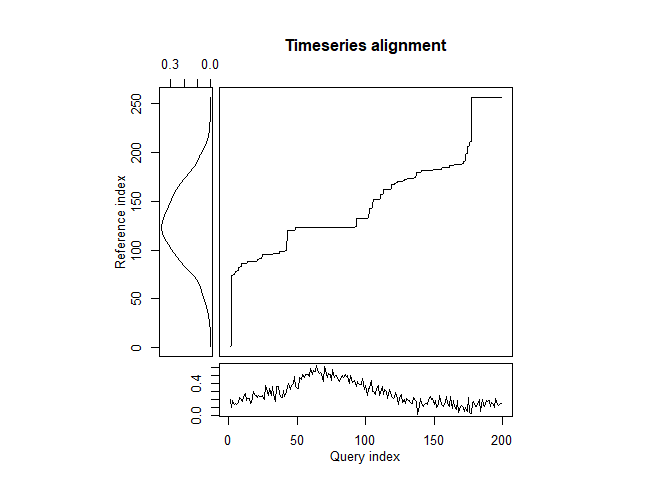
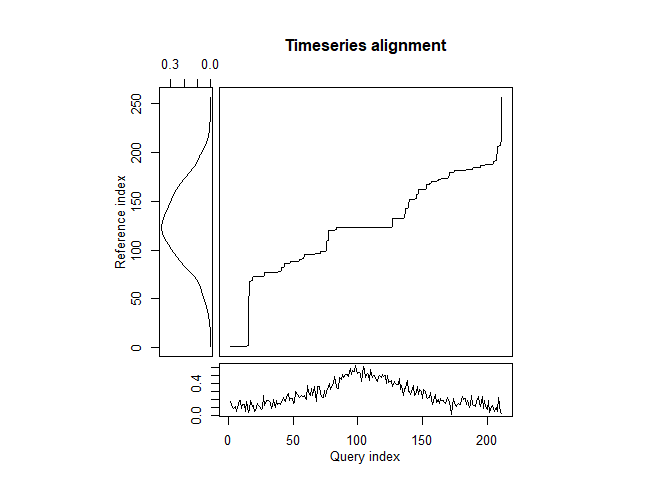
Update rendered version of dtw-optim notebook

diff --git a/notebooks/dtw-optim.md b/notebooks/dtw-optim.md
@@ -1,6 +1,7 @@
 -   [Constrained Optimization test](#constrained-optimization-test)
 -   [Constrained optimization of a
     DTW](#constrained-optimization-of-a-dtw)
+-   [Rectifying the warped query](#rectifying-the-warped-query)
 
     source("../helpers.R")
     source("./common-funcs.R", echo = FALSE)
@@ -174,7 +175,8 @@ scores, or use arguments to change the computation entirely.
       
       org_f <- pattern_approxfun(org_signal$y)
       # We want to optimize the mapped function, not the one represented by the window
-      comp_f <- pattern_approxfun(comp_ex$data, yLimits = range(org_signal$y))
+      #comp_f <- pattern_approxfun(comp_ex$data, yLimits = range(org_signal$y))
+      comp_f <- pattern_approxfun(comp_win)
       
       warp_dtw <- pattern_approxfun_warp(dtwAlign = comp_dtw)
       warp_org_f <- warp_dtw$f_warp_org
@@ -185,18 +187,28 @@ scores, or use arguments to change the computation entirely.
       
       
       if (useOnlyKL) {
-        temp1 <- stat_diff_2_functions_symmetric_KL(org_f, comp_f)$value^.2
-        temp2 <- stat_diff_2_functions_symmetric_KL(warp_org_f, warp_opt_f)$value^.2
-        kl_ONLY_SCORE <- temp1 * temp2
-        return(kl_ONLY_SCORE)
+        return(
+          stat_diff_2_functions_symmetric_KL_sampled(org_f, comp_f)$value^.2 *
+          stat_diff_2_functions_symmetric_KL_sampled(warp_org_f, warp_opt_f)$value^.2
+        )
+    #    temp1 <- stat_diff_2_functions_symmetric_KL(org_f, comp_f)$value^.2
+    #    temp2 <- stat_diff_2_functions_symmetric_KL(warp_org_f, warp_opt_f)$value^.2
+    #    kl_ONLY_SCORE <- temp1 * temp2
+    #    return(kl_ONLY_SCORE)
       }
       
       # This can be returned directly (should not be used with other scores).
       if (useOnlyJSD) {
-        jsd_ONLY_LOG_SCORE <- -1 *
-          log(stat_diff_2_functions_symmetric_JSD(org_f, comp_f)$value) *
-          log(stat_diff_2_functions_symmetric_JSD(warp_org_f, warp_opt_f)$value)
-        return(jsd_ONLY_LOG_SCORE)
+        # Note: It appears we can leave out scoring the warping function
+        # as we do it below, if the function comp_f was approximated over comp_win.
+        return(-1 *
+          log(stat_diff_2_functions_symmetric_JSD_sampled(org_f, comp_f)$value) *
+          log(stat_diff_2_functions_symmetric_JSD_sampled(warp_org_f, warp_opt_f)$value)
+        )
+    #    jsd_ONLY_LOG_SCORE <- -1 *
+    #      log(stat_diff_2_functions_symmetric_JSD(org_f, comp_f)$value) *
+    #      log(stat_diff_2_functions_symmetric_JSD(warp_org_f, warp_opt_f)$value)
+    #    return(jsd_ONLY_LOG_SCORE)
       }
       
       
@@ -274,11 +286,12 @@ equal to) 0, and the cut-out to be less than (or equal to) 1.
     })
     co_dtw_res$par
 
-    ## [1] 0.2939301 0.4875219
+    ## [1] 0.2603748 0.4661656
 
     co_dtw_res$value
 
-    ## [1] -27.96735
+    ## jensen-shannon 
+    ##      -24.07713
 
 Note that `co_dtw_res$par` holds the optimized parameters for which the
 objective function returned the minimum value (since we are doing
@@ -298,14 +311,14 @@ may have different meaning (for example, when using scores, the range is
     tempEx <- extract_signal_from_window(comp_dtw, use_win)
     tempEx$monotonicity
 
-    ## [1] 0.3205742
+    ## [1] 0.3185012
 
     org_f <- pattern_approxfun(org_signal$y[comp_ex$start_ref:comp_ex$end_ref])
-    comp_f <- pattern_approxfun(comp_ex$data, smooth = TRUE)
-    #comp_f <- pattern_approxfun(yData = use_win, yLimits = range(org_signal$y))
+    #comp_f <- pattern_approxfun(comp_ex$data, smooth = TRUE)
+    comp_f <- pattern_approxfun(yData = use_win)#, yLimits = range(org_signal$y))
     area_diff_2_functions(org_f, comp_f)$value
 
-    ## [1] 0.06645404
+    ## [1] 0.1333452
 
     plot_2_functions(org_f, comp_f)
 
@@ -371,7 +384,7 @@ enough.
     })
 
 Let’s show the results’ search space. Remember our optimal solution is
-at 0.2939301, 0.4875219 (cut-in/-out). Also, the graph below will show
+at 0.2603748, 0.4661656 (cut-in/-out). Also, the graph below will show
 better results located on the diagonal, which are invalid, because we
 have imposed constraints to guarantee a minimum distance between in/out,
 which invalidates all these results.
@@ -388,7 +401,11 @@ which invalidates all these results.
 ![](dtw-optim_files/figure-markdown_strict/unnamed-chunk-9-1.png)
 
 Since the KL-divergence was not able to converge to the same optimum,
-let’s plot the heatmap for it, too.
+let’s plot the heatmap for it, too. *(Note: The below results were not
+computed with the new `KL_sampled`-function and may deviate from those!
+A quick test showed that the `KL_sampled`-function finds a slightly
+better result for the example above; however, it still cannot be any of
+the `JSD`-functions.)*
 
     # We have computed this previously
     z_KL <- readRDS("../results/dtw-optim-onlyKL.rds")
@@ -402,3 +419,108 @@ let’s plot the heatmap for it, too.
     })
 
 ![](dtw-optim_files/figure-markdown_strict/unnamed-chunk-10-1.png)
+
+Rectifying the warped query
+===========================
+
+*(Note: The following is an unfinished test and not entirely working as
+expected! In the meantime, we have achieved what we were after, and
+there are new functions, such as `extract_warping_from_dtw()` and
+`get_dtw_scorable_functions()` that deliver rectified reference and
+query signals.)*
+
+*(Note: These new functions allow us to get closer to the pursued
+optimization goal of quantifying the costs for the patch.)*
+
+We want to make an attempt at rectifying the query signal, according to
+the warping function. We will use the warping function’s derivative to
+find sections of constant slope, and then sample (interpolate, actually)
+from the query according to the slope. Finally, we compose all rectified
+fragments into a new query that we can use for DTW again, or for
+assessing the goodness of fit using some metrics or scores.
+
+    wl <- length(comp_dtw$index2)
+    warp_x <- seq(0, 1, length.out = wl)
+    warp_f_ <- stats::approxfun(x = warp_x, y = comp_dtw$index2 / max(comp_dtw$index2))
+    warp_f <- base::Vectorize(function(x) {
+      if (x < 0) {
+        return(0)
+      } else if (x > 1) {
+        return(comp_dtw$index2[wl])
+      }
+      return(warp_f_(x))
+    })
+    warp_grad_ <- numDeriv::grad(func = warp_f, x = warp_x)
+    # Sometimes, numDeriv::grad outputs extreme gradients, and we need to cut them off
+    warp_grad_ <- warp_grad_[warp_grad_ < 1e2] # I guess a slope larger than that is quite unusual
+    #warp_grad_[warp_grad_ > 1e2] <- max(warp_grad_[warp_grad_ <= 1e2])
+    warp_grad_f <- stats::approxfun(
+      x = seq(0, 1, length.out = length(warp_grad_)), y = warp_grad_)
+    plot_2_functions(warp_f, warp_grad_f)
+
+![](dtw-optim_files/figure-markdown_strict/unnamed-chunk-11-1.png) Now
+we need to find segments in the gradient, where the slope is constant.
+
+    find_constant_slopes <- function(vec, eps = 1e-5) {
+      res <- NULL
+      
+      i <- 1
+      while (i <= length(vec)) {
+        s <- vec[i]
+        segm <- c()
+        j <- i
+        while (j <= length(vec)) {
+          if (abs(s - vec[j]) < eps) {
+            segm <- c(segm, vec[j])
+            j <- j + 1
+          } else {
+            break
+          }
+        }
+        
+        res <- rbind(res, data.frame(
+          slope = segm[1],
+          start = i,
+          stop = j,
+          start_rel = (i - 1) / length(vec),
+          stop_rel = j / length(vec),
+          len_rel = ((j / length(vec)) - ((i - 1) / length(vec))),
+          len_rel_corr = ((j / length(vec)) - ((i - 1) / length(vec))) * segm[1]
+        ))
+        
+        i <- j + 1 # start after current segment
+      }
+      
+      res
+    }
+
+    res <- find_constant_slopes(warp_grad_)
+
+    query_unwarp <- c()
+    for (rn in rownames(res)) {
+      r <- res[rn, ]
+      if (r$slope == 0) {
+        next
+      }
+      
+      # That's the data we have to unwarp!
+      startQ <- round(1 + r$start_rel * length(use_win))
+      stopQ <- round(r$stop_rel * length(use_win))
+      useY <- c(use_win[startQ:stopQ])
+      
+      if (length(useY) == 0) {
+        next
+      } else if (length(useY) < 2) {
+        useY <- c(useY, useY)
+      }
+      
+      query_unwarp <- c(
+        query_unwarp,
+        stats::approx(x = 1:length(useY),
+                      y = useY, n = round(r$len_rel_corr * 1e4))$y
+      )
+    }
+
+    plot(query_unwarp, type = "l")
+
+![](dtw-optim_files/figure-markdown_strict/unnamed-chunk-13-1.png)
